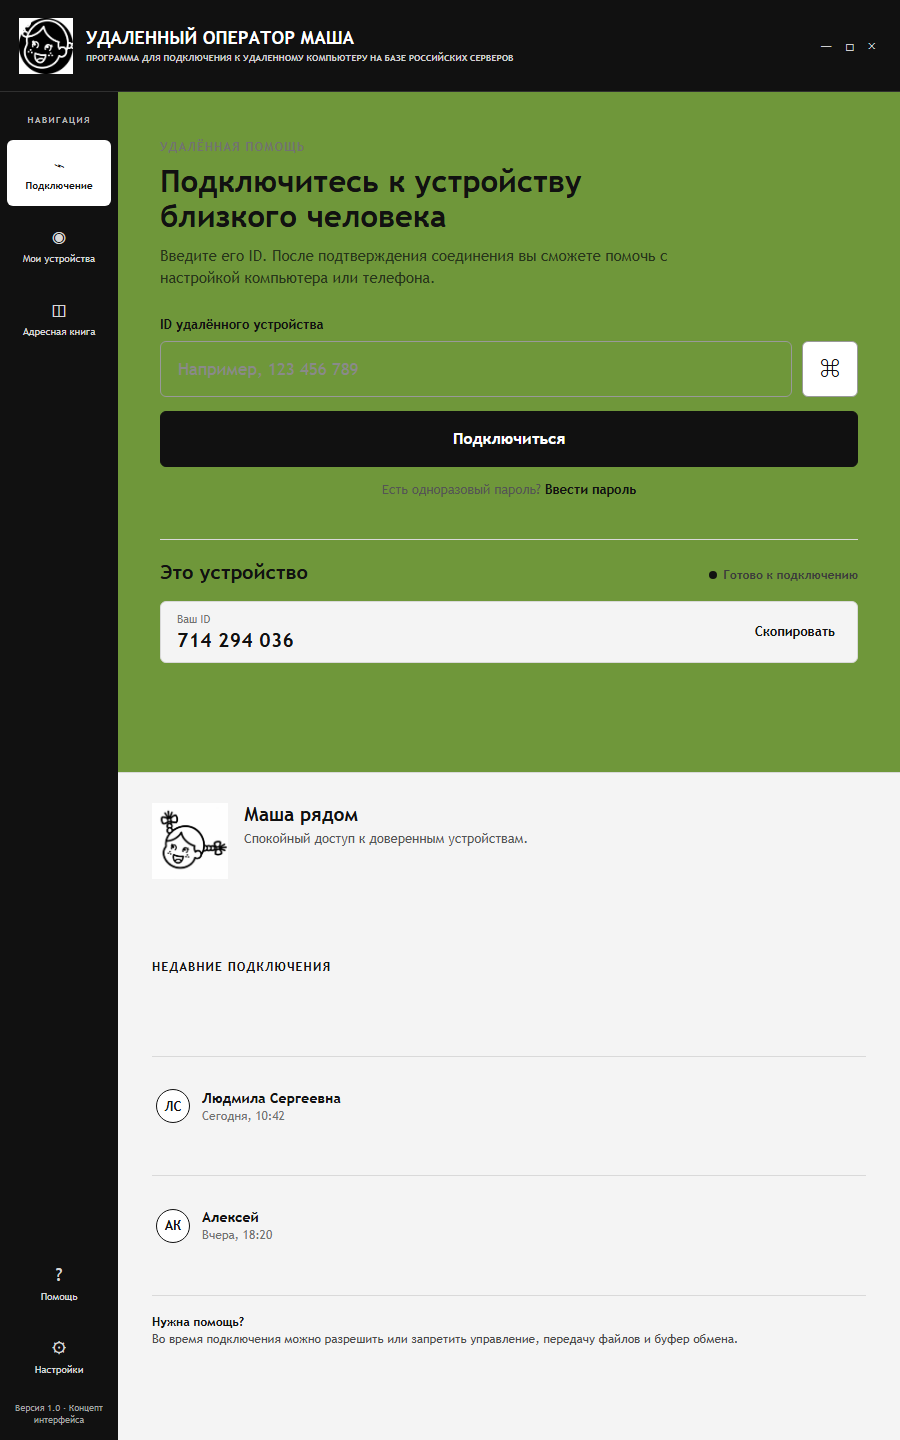
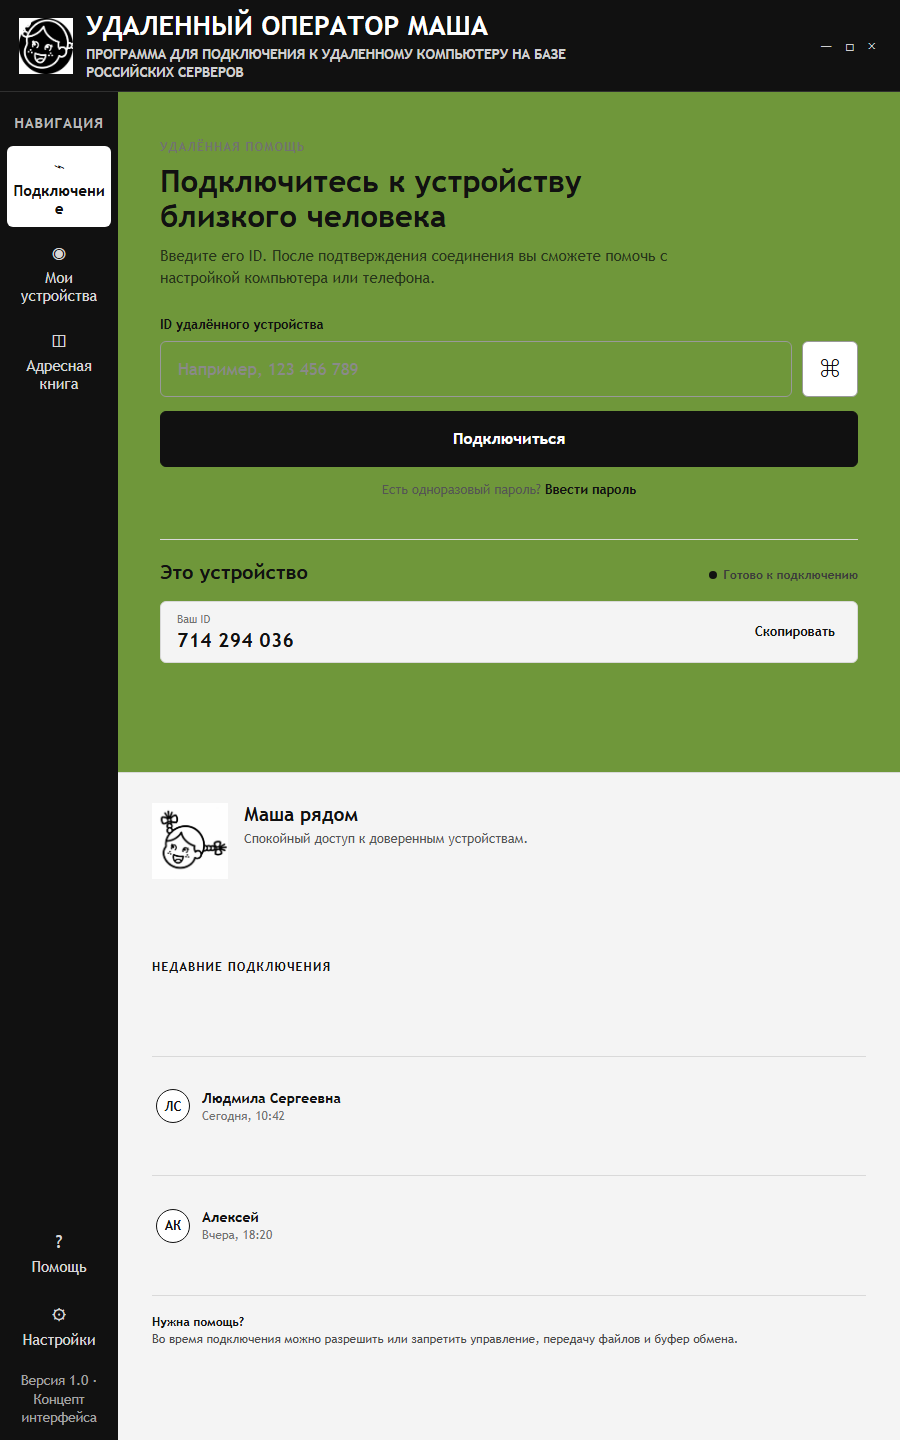
docs: enlarge Masha concept navigation text

Changed region(s): [[0.0, 0.0, 0.6222, 0.2812], [0.0311, 0.875, 0.1244, 1.0]]

diff --git a/docs/design/masha-desktop-concept.html b/docs/design/masha-desktop-concept.html
@@ -47,8 +47,8 @@
 
     .brand { display: flex; align-items: center; gap: 12px; }
     .brand-mark { width: 56px; height: 56px; object-fit: contain; }
-    .brand-name { color: var(--paper); font-size: 18px; font-weight: 700; letter-spacing: 0; }
-    .brand-name span { display: block; max-width: 500px; color: #d0d0d0; font-size: 9px; font-weight: 700; line-height: 1.35; margin-top: 4px; text-transform: uppercase; }
+    .brand-name { color: var(--paper); font-size: 27px; font-weight: 700; letter-spacing: 0; }
+    .brand-name span { display: block; max-width: 500px; color: #d0d0d0; font-size: 13.5px; font-weight: 700; line-height: 1.35; margin-top: 4px; text-transform: uppercase; }
     .window-actions { display: flex; gap: 13px; color: #d0d0d0; font-size: 16px; }
 
     .sidebar {
@@ -62,7 +62,7 @@
     .sidebar-label {
       margin: 0 4px 14px;
       color: #b8b8b8;
-      font-size: 9px;
+      font-size: 13.5px;
       font-weight: 700;
       letter-spacing: 1.2px;
       line-height: 1.35;
@@ -82,7 +82,7 @@
       border: 1px solid transparent;
       border-radius: 6px;
       color: #d7d7d7;
-      font-size: 10px;
+      font-size: 15px;
       line-height: 1.2;
       overflow-wrap: anywhere;
       text-align: center;
@@ -91,7 +91,7 @@
     .nav-item.active { background: var(--paper); color: var(--ink); font-weight: 700; }
     .nav-glyph { width: 18px; font-size: 18px; text-align: center; }
     .sidebar-bottom { margin-top: auto; }
-    .version { margin: 12px 5px 0; color: #a4a4a4; font-size: 9px; line-height: 1.35; text-align: center; }
+    .version { margin: 12px 5px 0; color: #a4a4a4; font-size: 13.5px; line-height: 1.35; text-align: center; }
 
     .main {
       display: grid;
